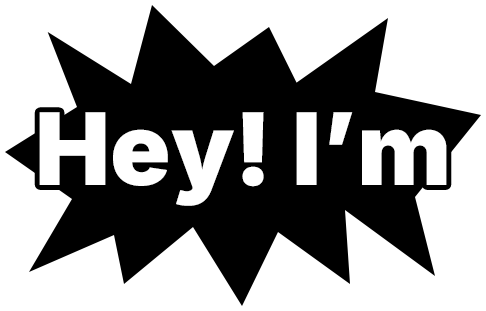
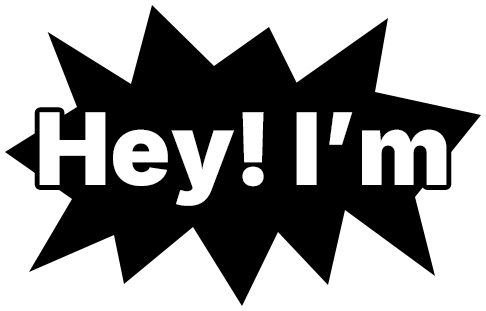
Fiddling around with the placement of text on home page, and some code cleanup

Changed region(s): [[0.5864, 0.6945, 0.7407, 0.926]]

diff --git a/src/app/components/_3JS.tsx b/src/app/components/_3JS.tsx
@@ -1,44 +1,21 @@
 'use client';
 
-import React, { useEffect, useRef, useState } from 'react';
+import React, { useEffect, useState } from 'react';
 import { Canvas, Euler, ExtendedColors, Layers, Matrix4, NodeProps, NonFunctionKeys, Overwrite, Quaternion, useFrame, useThree, Vector3 } from '@react-three/fiber';
 import { 
     Center,
     Text3D,
     Environment,
-    OrbitControls,
-    MeshTransmissionMaterial,
     Float,
     Lightformer,
-    useProgress,
-    Html,
-    Stars,
-    MeshWobbleMaterial,
-    MeshRefractionMaterial,
-    // Html,
 } from '@react-three/drei';
 import Blob from './Blob'; // Import the Blob component
-import { LayerMaterial, Depth, Noise, Color } from 'lamina';
 import * as THREE from 'three';
 import NoiseGradientShaderMaterial from './NoiseGradientShaderMaterial';
 import { EventHandlers } from '@react-three/fiber/dist/declarations/src/core/events';
 import RotatingText from './RotatingText';
 import HelloText from './HelloText';
 import Loader from './Loader';
-
-function Torus() {
-  const ref = useRef<THREE.Mesh>(null!);
-  useFrame(() => (ref.current.rotation.x += 0.01));
-  useFrame(() => (ref.current.rotation.y += 0.005));
-  useFrame(() => (ref.current.rotation.z += 0.01));
-
-  return (
-    <mesh ref={ref}>
-      <torusGeometry args={[1, 0.1, 32, 32]} />
-      <meshBasicMaterial attach="material" args={[{ color: '#FFF' }]} />
-    </mesh>
-  );
-}  
 
 function ThreeDText({
   config,
@@ -76,21 +53,6 @@ function ThreeDText({
           >
             {text}
             <meshStandardMaterial color="white" roughness={0.1} metalness={1} />
-            {/* <LayerMaterial side={THREE.BackSide}>
-                <Color color="blue" alpha={1} mode="normal" />
-                <Depth colorA="#ffffff" colorB="#00BFFF" alpha={0.5} mode="normal" near={0} far={300} origin={[100, 100, 100]} />
-                <Noise mapping="local" type="cell" scale={0.5} mode="softlight" />
-            </LayerMaterial> */}
-            {/* <meshPhysicalMaterial
-                color="white"
-                metalness={1}
-                roughness={0}
-                // reflectivity={1}
-                clearcoat={1}
-                clearcoatRoughness={0}
-                envMapIntensity={1}
-            /> */}
-            {/* <MeshTransmissionMaterial {...config} /> */}
           </Text3D>
         </Center>
       </group>
@@ -122,61 +84,59 @@ export default function _3JS() {
     }, []);
 
     //this config is just for the 3d text, so it may be moved later to something that makes more sense
-  const { ...config } = {
+    const { ...config } = {
     backside: true,
     backsideThickness: 1,
     transmission: 2,
     chromaticAberration: 50,
-    // ior: 10,
-    // color: '#000000',
-  };
+    };
 
-  return (
+    return (
     <>
-    <Canvas camera={{ position: [0, 0, 10] }}>
-        <React.Suspense fallback={<Loader />}>
-            {!isMobile && (
-                <group>
-                    <Blob scale={1} position={[-5, 5, -3]} />
-                    <Blob scale={1.2} position={[-5, 1.5, 5]} />
-                    <Blob scale={1.3} position={[5, 3, 1]} />
-                    <Blob scale={1.5} position={[-5, -2, 4]} />
-                    <Blob scale={1.1} position={[8, 1, 2]} />
+        <Canvas camera={{ position: [0, 0, 10] }}>
+            <React.Suspense fallback={<Loader />}>
+                {!isMobile && (
+                    <group>
+                        <Blob scale={1} position={[-5, 5, -3]} />
+                        <Blob scale={1.2} position={[-5, 1.5, 5]} />
+                        <Blob scale={1.3} position={[5, 3, 1]} />
+                        <Blob scale={1.5} position={[-5, -2, 4]} />
+                        <Blob scale={1.1} position={[8, 1, 2]} />
+                    </group>
+                )}
+                <Float speed={3} rotationIntensity={0.5}>
+                    <ThreeDText config={config} position={[-0.75, 0.6, 0]} text="Jeff" />
+                    <ThreeDText config={config} position={[0.75, -0.5, 0]} size={0.45} text="Cardinal" />
+                </Float>
+                <Environment 
+                    // preset="studio"
+                    files="/hdri/kloofendal_48d_partly_cloudy_puresky_4k.hdr"
+                    // blur={}
+                    backgroundIntensity={5}
+                    background={false}
+                    backgroundRotation={[0, 0, 0]}
+                >
+                <Striplight position={[10, 2, 0]} scale={[1, 3, 10]} />
+                <Striplight position={[-10, 2, 0]} scale={[1, 3, 10]} />
+                <directionalLight
+                    intensity={10}
+                    position={[2, 2, 5]}
+                />
+                <ambientLight intensity={10} />
+                <Striplight position={[10, 2, 0]} scale={[1, 3, -10]} />
+                <Striplight position={[-10, 2, 0]} scale={[1, 3, -10]} />
+                <group rotation={[0, 0, 0]}>
+                    <Lightformer intensity={1} rotation-x={ Math.PI / 2} position={[0, 5, 9]}   scale={[10, 10, 1]} />
                 </group>
-            )}
-            <Float speed={3} rotationIntensity={0.5}>
-                <ThreeDText config={config} position={[-0.75, 0.6, 0]} text="Jeff" />
-                <ThreeDText config={config} position={[0.75, -0.5, 0]} size={0.45} text="Cardinal" />
-            </Float>
-            <Environment 
-                // preset="studio"
-                files="/hdri/kloofendal_48d_partly_cloudy_puresky_4k.hdr"
-                // blur={}
-                backgroundIntensity={5}
-                background={false}
-                backgroundRotation={[0, 0, 0]}
-            >
-            <Striplight position={[10, 2, 0]} scale={[1, 3, 10]} />
-            <Striplight position={[-10, 2, 0]} scale={[1, 3, 10]} />
-            <directionalLight
-                intensity={10}
-                position={[2, 2, 5]}
-            />
-            <ambientLight intensity={10} />
-            <Striplight position={[10, 2, 0]} scale={[1, 3, -10]} />
-            <Striplight position={[-10, 2, 0]} scale={[1, 3, -10]} />
-            <group rotation={[0, 0, 0]}>
-                <Lightformer intensity={1} rotation-x={ Math.PI / 2} position={[0, 5, 9]}   scale={[10, 10, 1]} />
-            </group>
-            </Environment>
-            <mesh position={[0, 0, -5]}>
-                <planeGeometry args={[45, 25]} />
-                <NoiseGradientShaderMaterial />
-            </mesh>
-        </React.Suspense>
-    </Canvas>
-    <HelloText/>
-    <RotatingText/>
+                </Environment>
+                <mesh position={[0, 0, -5]}>
+                    <planeGeometry args={[45, 25]} />
+                    <NoiseGradientShaderMaterial />
+                </mesh>
+            </React.Suspense>
+        </Canvas>
+        <HelloText/>
+        <RotatingText/>
     </>
-  );
+    );
 }

diff --git a/src/app/components/RotatingText.tsx b/src/app/components/RotatingText.tsx
@@ -1,7 +1,7 @@
 import { useEffect, useState } from "react";
 
 function RotatingText() {
-    const phrases = ["programmer", "designer", "musician", "creative"];
+    const phrases = ["programmer", "designer", "musician"];
     const [currentPhraseIndex, setCurrentPhraseIndex] = useState(0);
     const [opacity, setOpacity] = useState(1);
   
@@ -22,13 +22,13 @@ function RotatingText() {
         style={{
           position: "absolute",
           top: "68%",
-          transform: "translate(0%, -100%)",
-          fontSize: "clamp(48px, 4vw, 64px)",
+          fontSize: "clamp(36px, 4vw, 64px)",
           fontWeight: "bold",
           display: "flex",
           justifyContent: "center",
           alignItems: "center",
           whiteSpace: "nowrap",
+          overflow: "hidden",
         }}
       >
         <span style={{ color: "#FFFFFF", whiteSpace: "pre" }}>I'm a </span>

diff --git a/src/app/components/HelloText.tsx b/src/app/components/HelloText.tsx
@@ -3,20 +3,11 @@ import Image from "next/image";
 const HelloText: React.FC = () => {
     return (
         <Image
-            className=""
+            className="absolute top-[40%] lg:left-[31%] left-[50%] -translate-x-1/2 -translate-y-full -rotate-5"
             src={`/images/heyim.png`}
             alt='' 
             width={250}
             height={250}
-            // sizes="100vw"
-            // style={{ width: '100%', height: 'auto' }}
-            style={{
-                position: "absolute",
-                top: "40%",
-                left: "31%",
-                transform: "translate(-50%, -100%)",
-                rotate: "-5deg",
-            }}
             objectFit='contain'
         />
         // <div

diff --git a/src/app/components/Blob.tsx b/src/app/components/Blob.tsx
@@ -14,9 +14,7 @@ export default function Blob({
   const ref = useRef<Mesh>(null!)
 
   useFrame(({ clock }, dt) => {
-    // ref.current.position.x = Math.cos(clock.elapsedTime + rand * 100) * -0.1 + 0.2
     ref.current.position.y = Math.sin(clock.elapsedTime + rand * 100) * 0.1 - 0.2
-    // ref.current.position.z = Math.cos(clock.elapsedTime + rand * 100) * -0.1 + 0.2
 
     if (displaceRef.current.strength !== strength.current) {
       displaceRef.current.strength = MathUtils.lerp(
